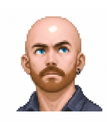
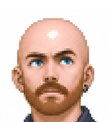
Close the look frames in on the heads
The shared crop has to fit the widest pose and the tallest, so at full
extent no single frame ever fills it and the face sat small in the middle
of its own whitespace -- noticeably smaller than the portrait it replaced.

The crop now closes to 0.78 of the union, anchored to the top of the heads
and the horizontal centre: the crown stays put and the shoulders run off
the bottom, which is how public/portrait.png was framed -- its ink reaches
all four edges. Shrinking about the centre instead leaves a gap above the
head and cuts the chin. The box is still shared by all nine, so nothing
moves between frames.

Tried at 1.0, 0.85, 0.78 and 0.70. Below about 0.75 the shoulders are gone
altogether and it reads as a crop of a face rather than a portrait.

The edge check now looks for pure black fill rather than for darkness.
Artwork running off an edge is the intended result of the zoom, so a
brightness threshold reported the correct crop as a fault -- the darkest
shirt pixels sum to ~290, the black-band bug's to ~6.

Claude-Session: https://claude.ai/code/session_01CjnpaYAr8vizShw4o1xh1Z

diff --git a/tools/slice-look-frames.py b/tools/slice-look-frames.py
@@ -2,7 +2,15 @@
 """
 Slices a 3x3 sheet of portrait poses into the nine look-at-cursor frames.
 
-    python3 tools/slice-look-frames.py <sheet.png>
+    python3 tools/slice-look-frames.py <sheet.png> [zoom]
+
+`zoom` (default 0.78) tightens the shared crop toward the top of the heads.
+At 1.0 the box is the full union of the nine poses, which leaves every frame
+some slack -- the box has to fit the widest pose and the tallest, so no single
+frame ever fills it and the face reads as too small and too far away. Below 1.0
+the box closes in, the outermost poses bleed off the edges, and the face fills
+the frame the way public/portrait.png does. The crop stays shared, so the head
+still does not move between frames.
 
 The sheet is read in the same order the effect uses:
 
@@ -46,7 +54,7 @@ TW, TH = 107, 122
 INK = 720
 
 
-def main(sheet_path: str) -> int:
+def main(sheet_path: str, zoom: float) -> int:
     out_dir = Path(__file__).resolve().parent.parent / "frontend" / "public"
     src = Image.open(sheet_path).convert("RGB")
     sw, sh = src.size
@@ -73,6 +81,18 @@ def main(sheet_path: str) -> int:
             top, bottom = min(top, ys.min()), max(bottom, ys.max())
 
     w, h = right - left + 1, bottom - top + 1
+
+    # Close in on the heads. Anchored to the top of the union and the horizontal
+    # centre: the crown stays where it is and the shoulders run off the bottom,
+    # which is how the original portrait was framed (its ink reaches all four
+    # edges). Shrinking about the centre instead would leave a gap above the
+    # head and cut the chin.
+    if zoom != 1.0:
+        centre_x = (left + right) / 2
+        w, h = w * zoom, h * zoom
+        left, right = centre_x - w / 2, centre_x + w / 2
+        bottom = top + h
+
     if w / h > TW / TH:
         pad = (round(w * TH / TW) - h) / 2
         top, bottom = top - pad, bottom + pad
@@ -94,15 +114,16 @@ def main(sheet_path: str) -> int:
         out = out_dir / f"portrait--look-{name}.png"
         frame.resize((TW, TH), Image.LANCZOS).save(out, optimize=True)
 
-        # The top and bottom edges must stay clear: content reaching the sides
-        # is legitimate (the front-facing pose has the widest shoulders), but a
-        # dark top or bottom edge means the overrun was filled rather than
-        # padded, i.e. the black-band bug is back.
+        # Look for the black-band bug specifically -- an out-of-bounds crop
+        # filled with pure black -- not merely for a dark edge. Artwork running
+        # off an edge is expected once the zoom closes in (the shoulders bleed
+        # off the bottom by design, and the darkest shirt pixels still sum to
+        # ~290), so a brightness threshold flags the intended crop as a fault.
         a = np.asarray(Image.open(out).convert("RGB")).astype(int)
-        for edge_name, edge in (("top", a[0]), ("bottom", a[-1])):
-            dark = int((edge.sum(axis=1) < 600).sum())
-            if dark:
-                print(f"  !! {name}: {dark} dark px on {edge_name} edge", file=sys.stderr)
+        for edge_name, edge in (("top", a[0]), ("bottom", a[-1]), ("left", a[:, 0]), ("right", a[:, -1])):
+            filled = int((edge.sum(axis=1) < 24).sum())
+            if filled:
+                print(f"  !! {name}: {filled} px of black fill on {edge_name} edge", file=sys.stderr)
                 failures += 1
         print(f"  {out.name}  {out.stat().st_size // 1024}K")
 
@@ -112,7 +133,7 @@ def main(sheet_path: str) -> int:
 
 
 if __name__ == "__main__":
-    if len(sys.argv) != 2:
+    if len(sys.argv) not in (2, 3):
         print(__doc__, file=sys.stderr)
         sys.exit(2)
-    sys.exit(main(sys.argv[1]))
+    sys.exit(main(sys.argv[1], float(sys.argv[2]) if len(sys.argv) == 3 else 0.78))
